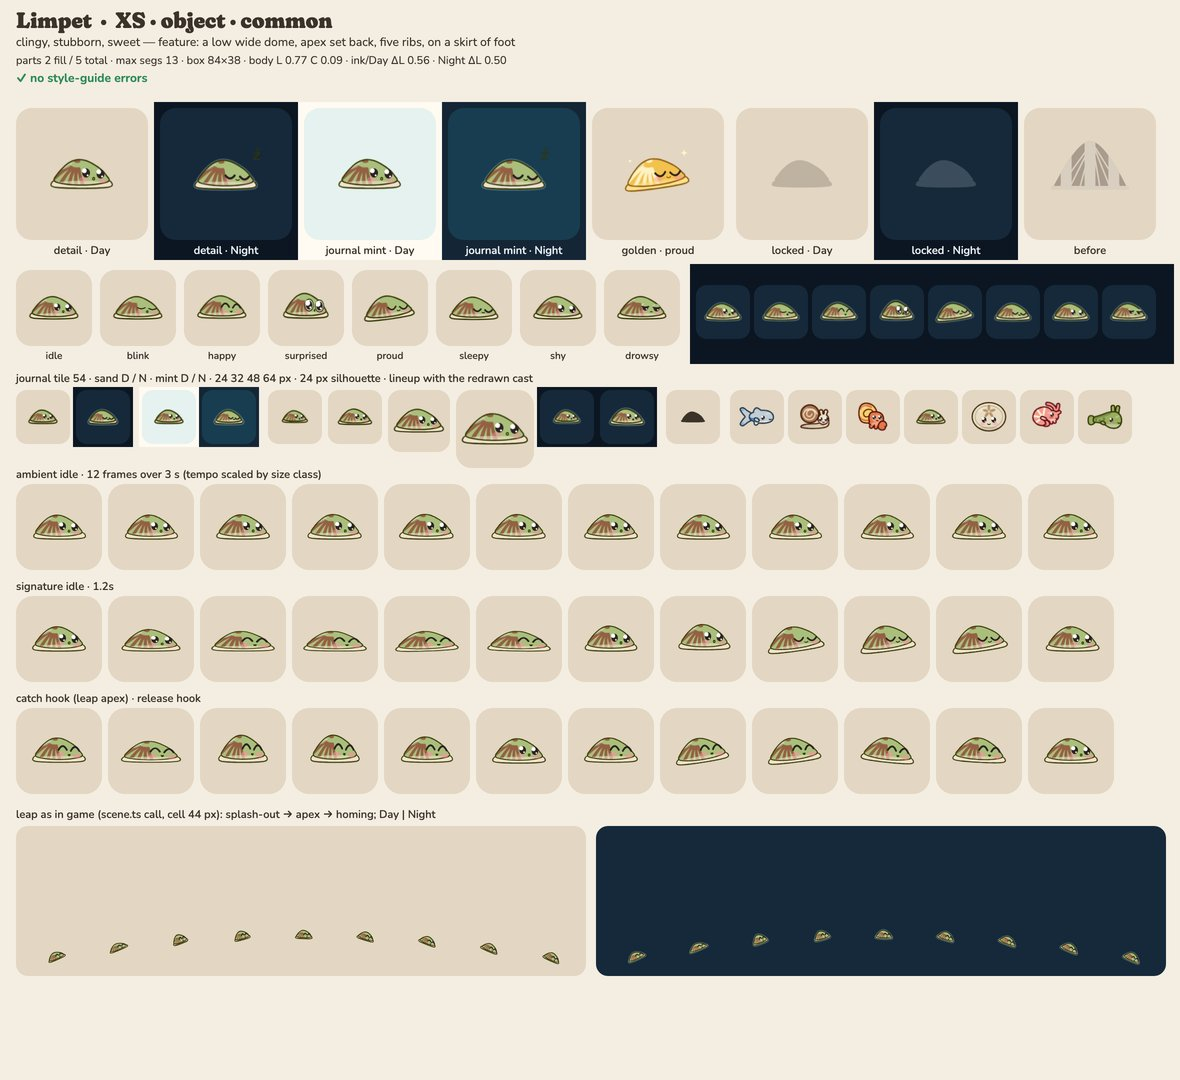
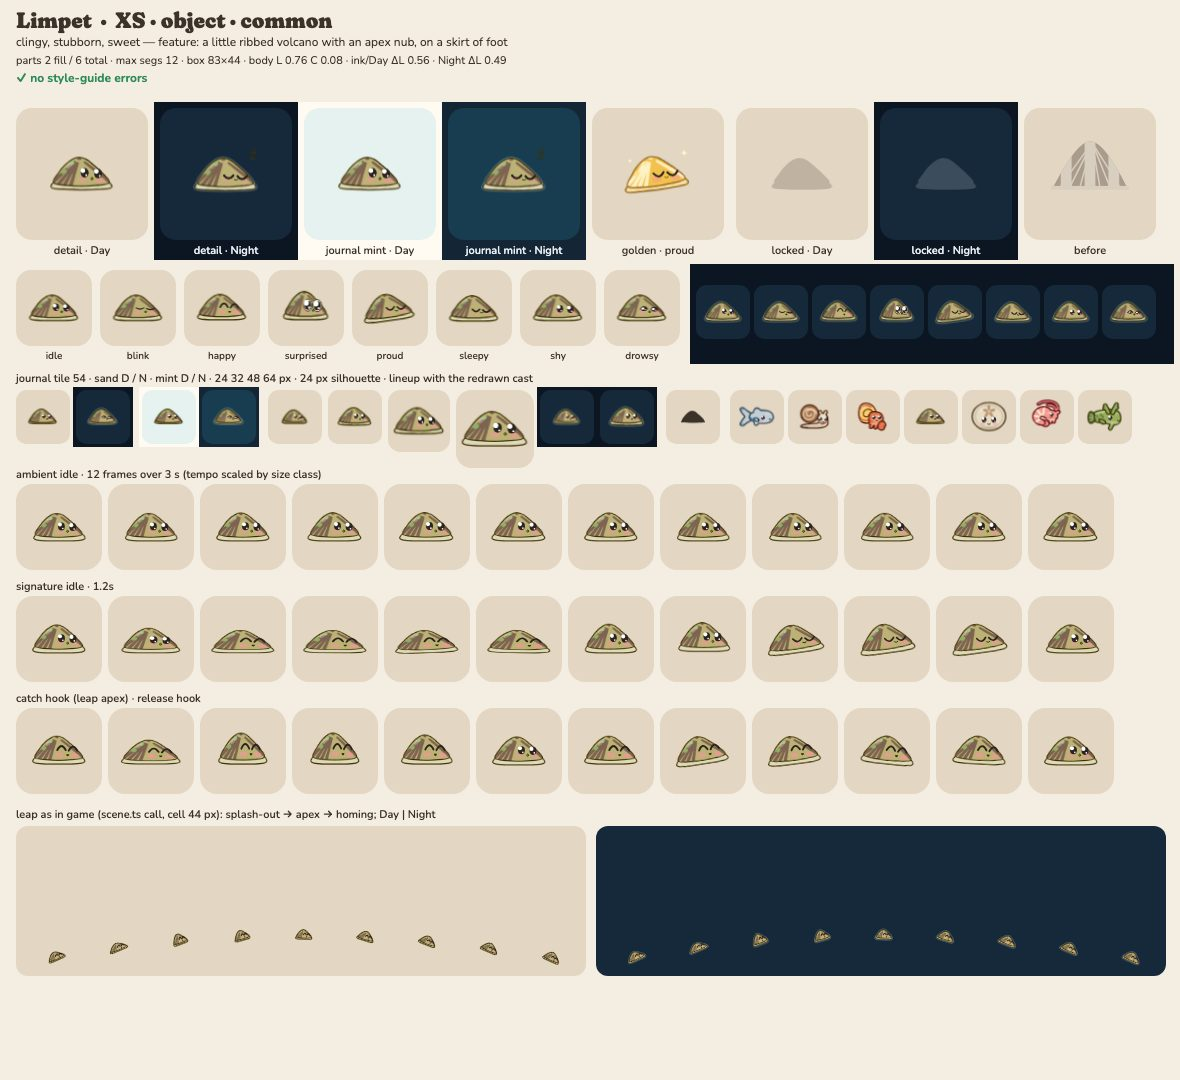
render: limpet art (ADR 0011)
CRITIQUE-3 misread (watermelon slice / mini turtle shell): redrawn as a
ribbed little volcano with an apex nub on a foot skirt; four umber ribs
#7E6450 down the back slope, one on the front edge, two algae dabs
#8DB069; face on the plain front flank, eyes 13 u at 55 % height.
Body #BDB276 (asked #B8A88E fails R16S chroma and sits dE 5 from the
flounder; nearest passing buff). Sheet: no style-guide errors; cold
read at 54 px: a limpet.

diff --git a/src/render/art/species/limpet.ts b/src/render/art/species/limpet.ts
@@ -2,80 +2,93 @@
  * Limpet — OBJECT class (side view), size XS.
  * Silhouette: a low, wide rounded cone (a little volcano) with a soft apex, sitting on a skirt of
  * foot that peeks out at the base (R10: the low cone, exaggerated flat and wide).
- * CRITIQUE-2: off the cockle and the brown cluster: low dome 2.2:1, apex 10 % back, five radial
- * ribs #946043 on a sage shell (a limpet with its algae), the face on the front flank (a 3/4 look) at 55 % height.
+ * CRITIQUE-3 (watermelon slice / mini turtle shell → limpet): a true little volcano with a rounded
+ * apex nub, four umber ribs down the back slope and one at the front edge, two algae dabs, on a buff
+ * shell; the front flank is left plain for the face (eyes 13 u at 55 % of the cone height).
  * Resting mouth: a stubborn little pout.
  * Personality: clingy, stubborn, sweet. Signature: hunkers down (squash, holding on tight with
  * squeezed eyes), then a tiny scoot sideways and a happy face.
  * Groups (back to front): skirt (the foot), body (the cone; the face rides on it).
  */
-import { blob, defineArt, ellipse, join, tube } from '../kit.ts';
+import { blob, circle, defineArt, ellipse, join, tube } from '../kit.ts';
 
-// CRITIQUE-2: a LOW dome 2.2:1, apex 10 % back (the limpet leans into the rock it clings to)
+// CRITIQUE-3: a true little volcano (not a dome): a rounded apex set 6 % back, straight-ish flanks
 const cone = blob([
-  [-37, 15],
-  [-33, 6],
-  [-25, -3],
-  [-16, -10],
-  [-6, -13.5],
-  [5, -12.5],
-  [16, -7.5],
-  [27, 0],
-  [34, 8],
-  [37, 15],
-  [20, 19],
-  [0, 20],
-  [-20, 19],
+  [-38, 15],
+  [-31, 2],
+  [-22, -9],
+  [-12, -16.5],
+  [-3, -19],
+  [7, -16],
+  [17, -8],
+  [28, 2],
+  [38, 15],
+  [20, 18.5],
+  [0, 19.5],
+  [-20, 18.5],
 ]);
-// the foot skirt flares past the dome like a hat brim (clinging tight)
+// the foot skirt flares past the cone like a hat brim (clinging tight)
 const skirt = blob([
-  [-41, 18],
+  [-40.5, 18],
   [-32, 14],
   [0, 14],
   [32, 14],
-  [41, 18],
+  [40.5, 18],
   [37, 23],
   [0, 24.5],
   [-37, 23],
 ]);
-// five radial ribs (4 u) fanning from the apex over the back two-thirds; the front flank is the face
+// radial ribs (4-5 u, tapering up) fanning from the apex: four down the back slope, one on the
+// front edge; the front flank between them stays plain for the face
+const APEX: [number, number] = [-3, -19];
 const rib = (x: number, y: number) =>
   tube([
-    [-6 + (x + 6) * 0.3, -12 + (y + 12) * 0.3, 2],
-    [-8 + (x + 8) * 0.6, -13 + (y + 13) * 0.6, 2.2],
-    [x, y, 2.4],
+    [APEX[0] + (x - APEX[0]) * 0.18, APEX[1] + (y - APEX[1]) * 0.18, 1.6],
+    [APEX[0] + (x - APEX[0]) * 0.6, APEX[1] + (y - APEX[1]) * 0.6, 2.2],
+    [x, y, 2.6],
   ]);
-const ribs = join(rib(-39, 12), rib(-29, 18), rib(-18, 21), rib(-8, 22), rib(2, 22));
+const ribs = join(rib(-40, 15), rib(-33, 19), rib(-25, 21.5), rib(-16, 23), rib(42, 16));
+// two algae dabs on the back slope (a limpet wears its garden)
+const algae = join(ellipse(-24, 0, 4.2, 3.2, -35), ellipse(-13, -12, 3.6, 3, -30));
 
 export default defineArt({
   id: 'limpet',
   klass: 'object',
   size: 'XS',
-  feature: 'a low wide dome, apex set back, five ribs, on a skirt of foot',
+  feature: 'a little ribbed volcano with an apex nub, on a skirt of foot',
   personality: ['clingy', 'stubborn', 'sweet'],
-  palette: { body: '#AABF7C', accent: '#946043', belly: '#F1E2CC' },
+  // CRITIQUE-3 asked slate-buff #B8A88E: C 0.04 fails R16S (and sits ΔE 5 from the flounder), so
+  // the nearest buff that passes and keeps ΔE >= 6 from every body is #BDB276. Umber ribs as asked;
+  // the belly role carries the sea-green algae dabs (the foot is the body hex under a pale wash).
+  palette: { body: '#BDB276', accent: '#7E6450', belly: '#8DB069' },
   groups: [
-    { id: 'skirt', parts: [{ d: skirt, role: 'belly' }] },
+    {
+      id: 'skirt',
+      parts: [
+        { d: skirt, role: 'body' },
+        { d: skirt, role: 'white', kind: 'pattern', alpha: 0.5 },
+      ],
+    },
     {
       id: 'body',
       parts: [
         { d: cone, role: 'body' },
         { d: ribs, role: 'accent', kind: 'pattern' },
-        { d: ellipse(-6, -12.5, 4.5, 2.6), role: 'accent', kind: 'pattern' },
-        { d: ellipse(0, 20, 40, 5), role: 'belly', kind: 'pattern', alpha: 0.6 },
+        { d: circle(APEX[0], APEX[1] - 0.5, 3.4), role: 'accent', kind: 'pattern' },
+        { d: algae, role: 'belly', kind: 'pattern' },
       ],
     },
   ],
-  shine: ellipse(-20, -6, 8, 3, -30),
+  shine: ellipse(-16, -9, 7, 2.6, -48),
   ground: true,
   face: {
     eyes: [
-      [6, 4],
-      [26, 5.5],
+      [4, 1.5],
+      [22.5, 2.5],
     ],
-    eye: 12.8,
-    zone: [-4, -18, 44, 40],
-    mouth: { at: [16.5, 12], w: 5, shape: 'pout' },
+    eye: 13,
+    zone: [-8, -21, 42, 40],
+    mouth: { at: [14, 9.5], w: 5, shape: 'pout' },
     front: true,
     sweet: true,
   },
